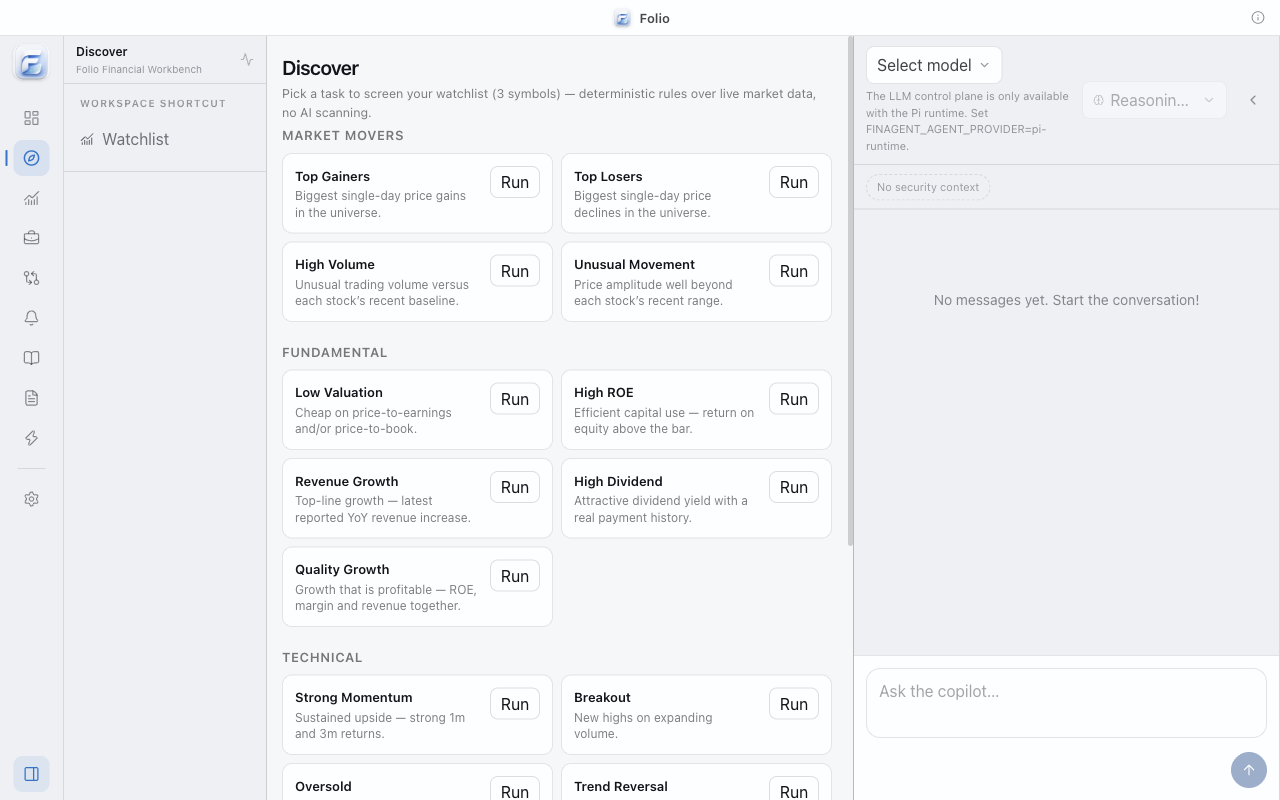
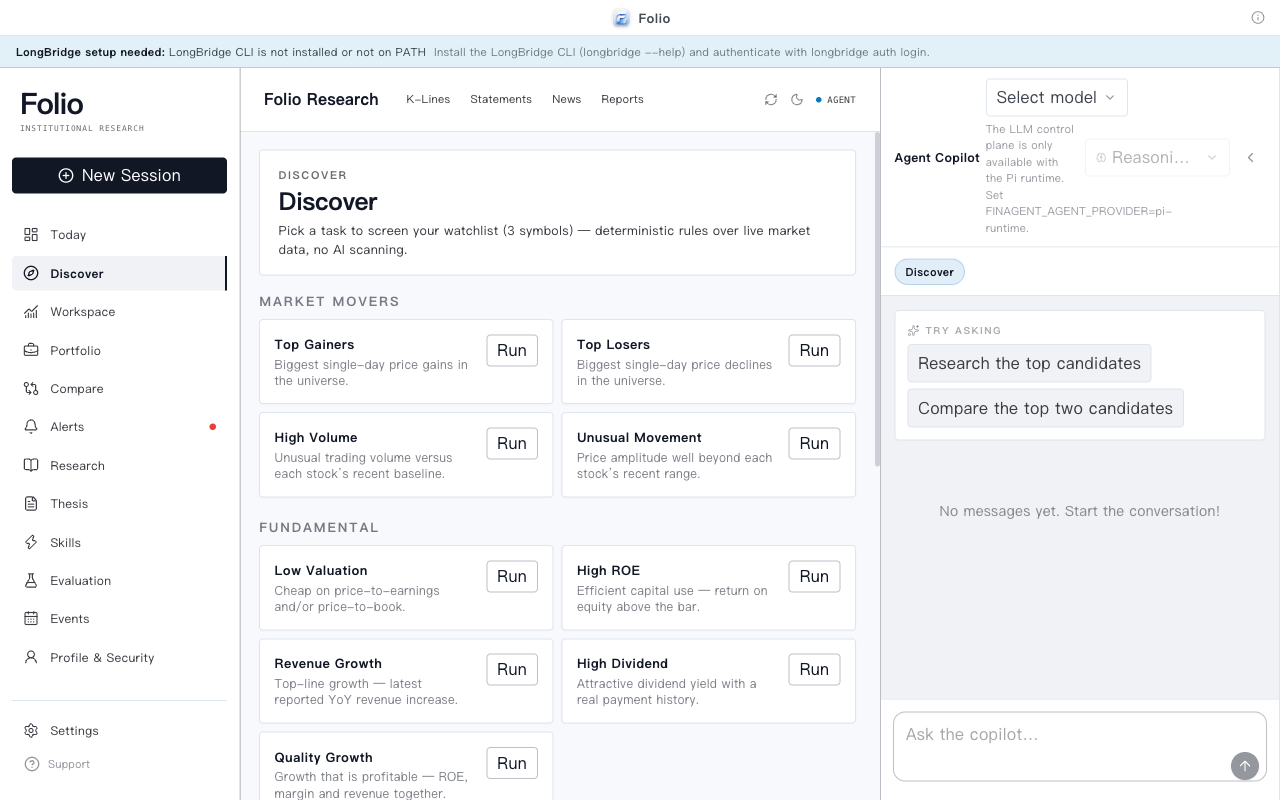
docs: refresh README screenshots for the new UI
- Re-capture all pages from the current build via e2e/visual.mjs
  (demo-data mode, local agent provider).
- Add Events & Catalysts, portfolio, and profile captures to the
  README screenshot section; refresh today/workspace/settings/
  evaluation/skills/discover.

[skip ci]

diff --git a/README.en.md b/README.en.md
@@ -36,21 +36,31 @@ Trail is local-first: sessions, credentials, and research state stay on the devi
 </p>
 
 <p align="center">
-  <em>Today — portfolio attention items, watchlist context, and quick research actions.</em>
+  <em>Today — portfolio attention items, market pulse, events, and quick research actions.</em>
 </p>
 
 <p align="center">
   <img src="docs/screenshots/workspace.png" alt="Trail security workspace" width="49%" />
+  <img src="docs/screenshots/events.png" alt="Trail Events & Catalysts" width="49%" />
+</p>
+
+<p align="center">
+  <img src="docs/screenshots/portfolio.png" alt="Trail portfolio" width="49%" />
+  <img src="docs/screenshots/profile.png" alt="Trail profile & workspace health" width="49%" />
+</p>
+
+<p align="center">
   <img src="docs/screenshots/settings.png" alt="Trail settings center" width="49%" />
-</p>
-
-<p align="center">
   <img src="docs/screenshots/evaluation.png" alt="Trail Agent evaluation settings" width="49%" />
-  <img src="docs/screenshots/skills.png" alt="Trail skills center" width="49%" />
 </p>
 
 <p align="center">
-  <em>From a quiet research workspace to skill readiness, evaluation tracing, and experiment setup, Trail keeps Agent engineering in the same desktop workflow.</em>
+  <img src="docs/screenshots/skills.png" alt="Trail skills center" width="49%" />
+  <img src="docs/screenshots/discover.png" alt="Trail discover" width="49%" />
+</p>
+
+<p align="center">
+  <em>From the security workspace, events & catalysts, and portfolio overview to settings, skill readiness, and evaluation tracing — with no services connected, every page above renders built-in sample data (badged “Sample data”).</em>
 </p>
 
 ## Key Features
